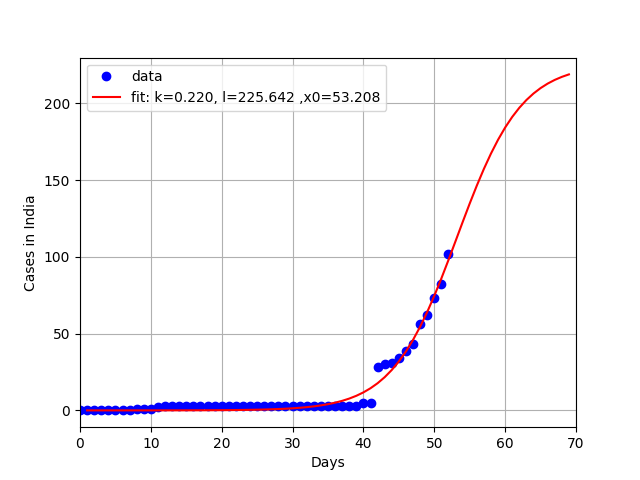
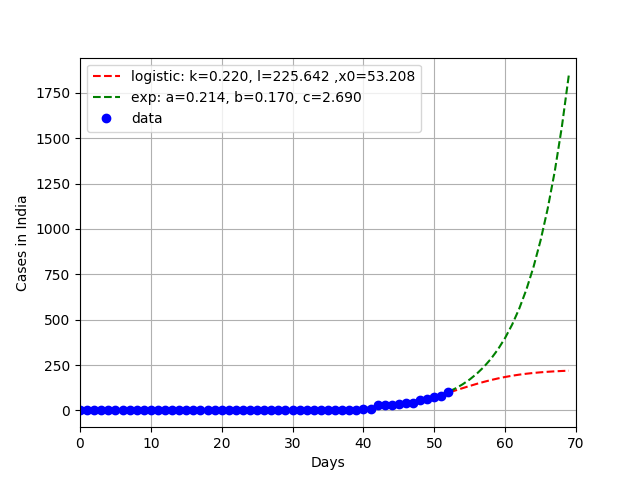
Fix sign error in exp function

diff --git a/predict.py b/predict.py
@@ -8,7 +8,7 @@ def logisitc(x, k, l, x0 = 0):
     return (l/(1 + np.exp(-k*(x-x0))))
 
 def exponential(x,a,b,c):
-    return a * np.exp(-b * x - c) 
+    return a * np.exp(b * x - c) 
 
 def plotGraph():
     plt.plot(predictDays, logisitc(predictDays, *popt), 'r--',label='logistic: k=%5.3f, l=%5.3f ,x0=%5.3f'% tuple(popt))
